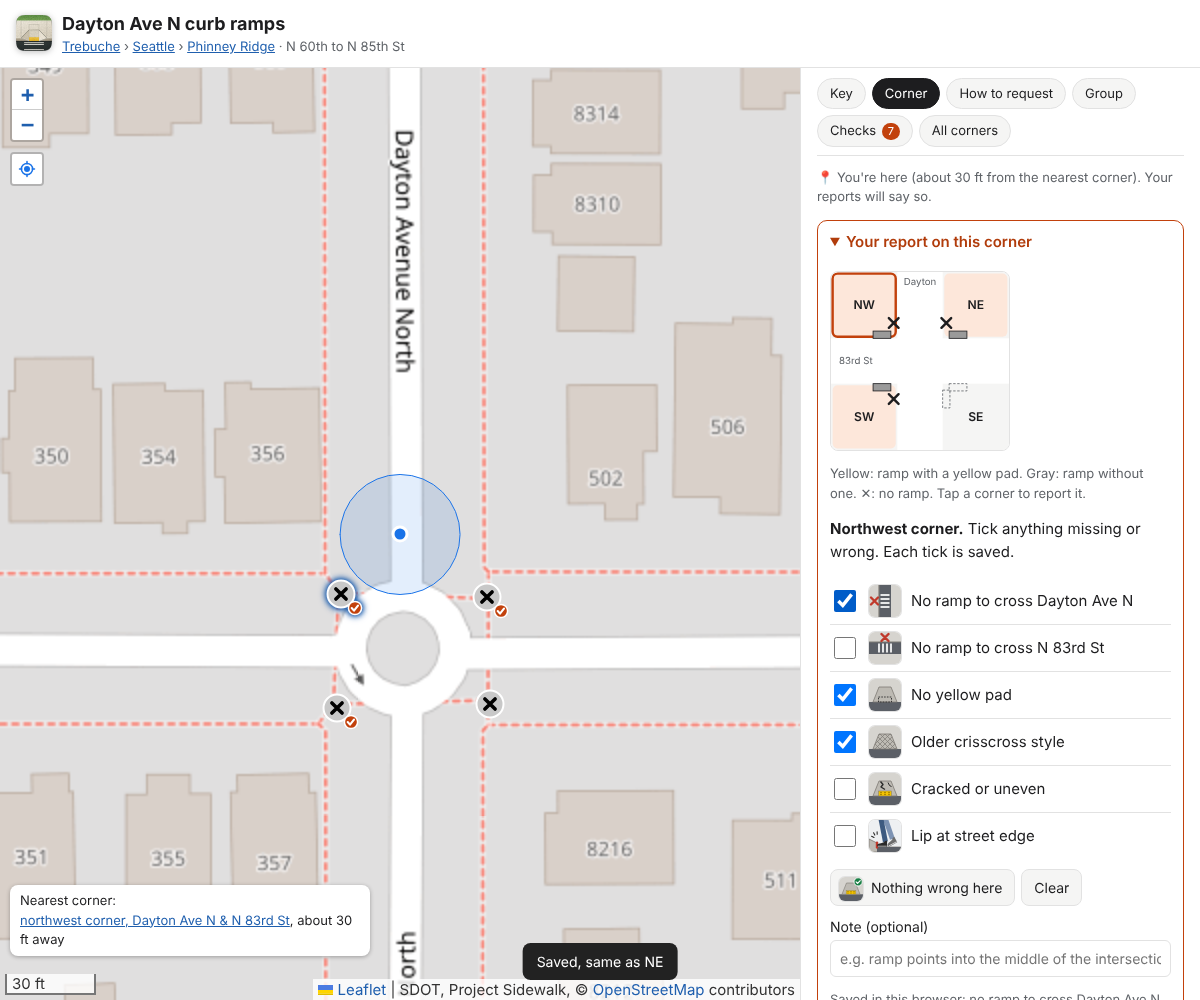
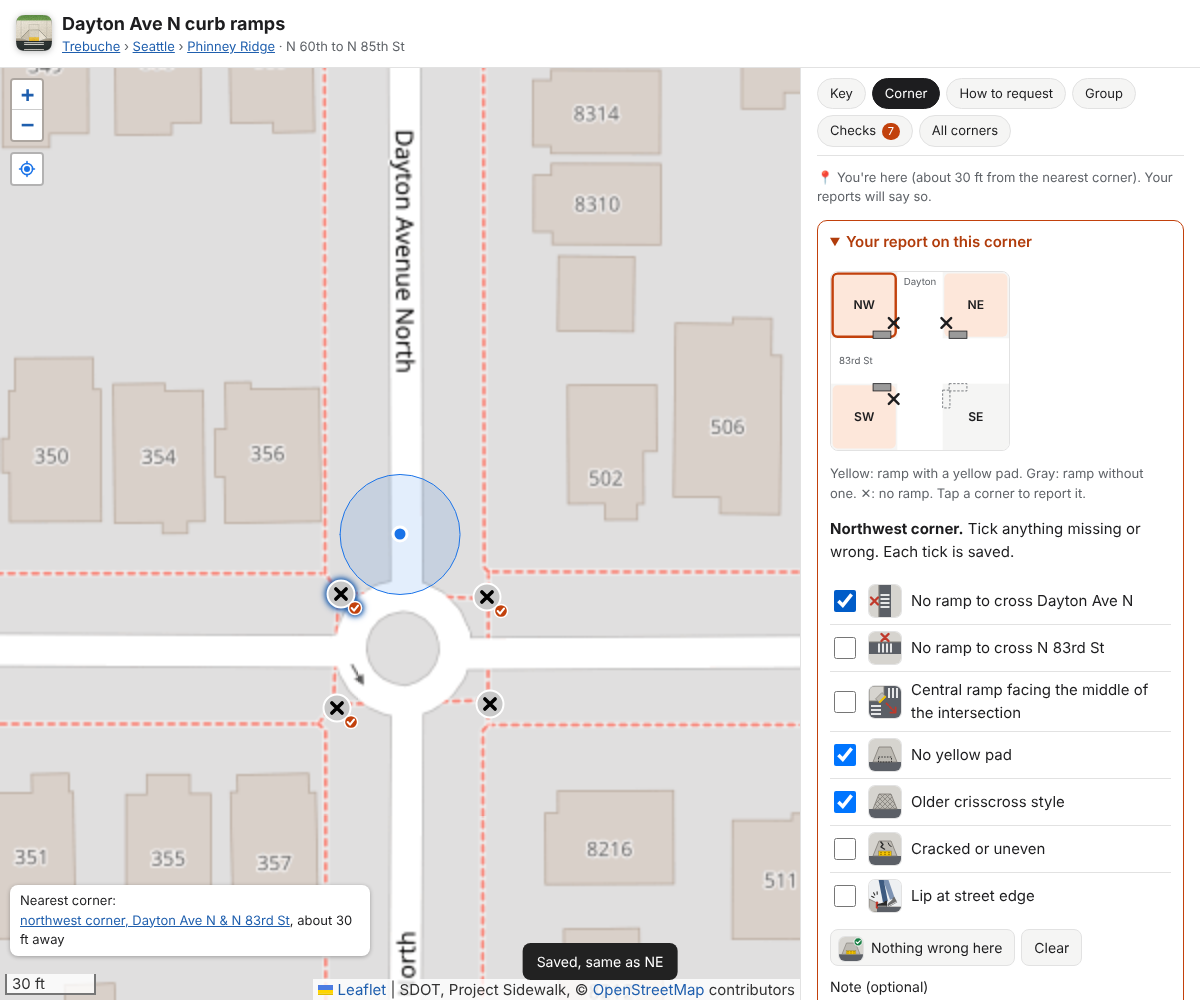
Reports: flag a central ramp facing the middle of the intersection
Some corners have a single ramp at the apex, aimed at the middle of the
intersection (like Standard Plan 422F's shared diagonal) instead of one lined
up with each crosswalk, so it doesn't line up with either crossing. It's a new
report option, "diagonal" in ramp_issues, with its own icon (turned to match
the corner). It still counts as a ramp for the crossings it serves; the corner
shows Needs upgrade and the request text explains why. The plan draws it at
the apex.

Claude-Session: https://claude.ai/code/session_01Sq9k8ApfSWaMUjBKdeSPKZ

Changed region(s): [[0.6783, 0.682, 0.9867, 1.0]]

diff --git a/docs/app.js b/docs/app.js
@@ -162,6 +162,7 @@ function checkText(c, rampsFor) {
 // What's wrong with ramps that are there. Stored as "no_warning+old_style" (ramp_issues column).
 // [checkbox label, words in sentences]
 const RAMP_ISSUES = {
+  diagonal: ["Central ramp facing the middle of the intersection", "one central ramp aimed at the middle of the intersection"],
   no_warning: ["No yellow pad", "no yellow pad"],
   old_style: ["Older crisscross style", "older crisscross style"],
   damaged: ["Cracked or uneven", "cracked or uneven"],
@@ -198,6 +199,19 @@ function reportIcon(kind, c, n) {
       <line x1="0" x2="32" y1="${curbY}" y2="${curbY}" stroke="${ICON.edge}" stroke-width="1.2"/>
       <path d="M12.5,${xy - 3.5}L19.5,${xy + 3.5}M19.5,${xy - 3.5}L12.5,${xy + 3.5}" stroke="#c0392b" stroke-width="2.4" stroke-linecap="round"/>`;
     if (n === "main") body = `<g transform="rotate(90 16 16)">${body}</g>`;
+  } else if (kind === "diagonal") {
+    // A corner from above (sidewalk in the corner's quarter, streets on the other two
+    // sides, a crosswalk across each), with one ramp at the curve aimed at the middle of
+    // the intersection, between the crosswalks. Drawn for NW, turned for the others.
+    const turn = { NW: 0, NE: 90, SE: 180, SW: 270 }[c.corner] || 0;
+    const bars = [19, 23, 27].map(x => `<rect x="${x}" y="2" width="2" height="10" fill="#fff" opacity=".85"/>`).join("") +
+      [19, 23, 27].map(y => `<rect x="2" y="${y}" width="10" height="2" fill="#fff" opacity=".85"/>`).join("");
+    body = `<g transform="rotate(${turn} 16 16)"><rect width="32" height="32" fill="${ICON.street}"/>${bars}
+      <path d="M0,0H15V8A7,7 0 0 1 8,15H0Z" fill="${ICON.walk}" stroke="${ICON.edge}" stroke-width=".9"/>
+      <g transform="rotate(-45 11.5 11.5)"><rect x="7" y="9" width="9" height="6" fill="${ICON.ramp}" stroke="${ICON.edge}" stroke-width=".6"/>
+        <rect x="7" y="13.2" width="9" height="2" fill="${ICON.pad}"/></g>
+      <path d="M17.5,17.5L25,25" stroke="#c0392b" stroke-width="1.8" stroke-linecap="round" stroke-dasharray="2.4 2"/>
+      <path d="M26.6,21.4V26.6H21.4" fill="none" stroke="#c0392b" stroke-width="1.8" stroke-linecap="round" stroke-linejoin="round"/></g>`;
   } else if (kind === "no_warning") {
     body = rampPlan({ pad: false });
   } else if (kind === "old_style") {
@@ -230,11 +244,15 @@ const issuesText = v => issueList(v).map(k => RAMP_ISSUES[k][1]).join(", ");
 const checkIssues = k => issueList(k.issues).join("+");
 const rampIssues = c => (checks[c.corner_id] ? checkIssues(checks[c.corner_id]) : c.field_issues) || "";
 function upgradeText(c) {
-  if (!issuesText(rampIssues(c)) || c.overall === "missing") return "";
+  const list = issueList(rampIssues(c));
+  if (!list.length || c.overall === "missing") return "";
   const plural = c.overall === "present" && needsOf(c).length > 1;
-  const what = issuesText(rampIssues(c));
-  return `The existing ramp${plural ? "s here: " : " here: "}${what}.` + (issueList(rampIssues(c)).includes("no_warning")
-    ? " Without the yellow pad (detectable warning panel), people who are blind or have low vision can't tell where the sidewalk ends." : "");
+  const diagonal = list.includes("diagonal"), rest = list.filter(i => i !== "diagonal").map(i => RAMP_ISSUES[i][1]);
+  let text = diagonal ? "The corner has one central ramp aimed at the middle of the intersection instead of a ramp lined up " +
+    "with each crosswalk, so it sends people toward traffic rather than into the crosswalk." : "";
+  if (rest.length) text += `${diagonal ? " The ramp also has: " : `The existing ramp${plural ? "s here: " : " here: "}`}${rest.join(", ")}.`;
+  if (list.includes("no_warning")) text += " Without the yellow pad (detectable warning panel), people who are blind or have low vision can't tell where the sidewalk ends.";
+  return text.trim();
 }
 
 // ------------------------------------------------------------------ evidence wording
@@ -749,11 +767,21 @@ function checkDiagram(c) {
       <rect x="${west ? 2 : B + 2}" y="${north ? 2 : B + 2}" width="${A - 4}" height="${A - 4}" rx="6"
         fill="${k ? "var(--checked-soft)" : "transparent"}" ${current ? 'stroke="var(--checked)" stroke-width="3"' : ""}/>
       <text x="${west ? A / 2 : B + A / 2}" y="${north ? A / 2 : B + A / 2}" dy=".35em" text-anchor="middle" class="corner-name">${x.corner}</text></g>`);
+    const diagonal = issueList(k?.issues).includes("diagonal");
+    if (diagonal && covered.length) {
+      // one ramp at the apex, aimed at the middle of the intersection
+      const ax = cx + sx * 12, ay = cy + sy * 12, turn = sx === sy ? -45 : 45;
+      parts.push(`<rect x="${ax - 8}" y="${ay - 4}" width="16" height="8" transform="rotate(${turn} ${ax} ${ay})"
+        fill="${noPad ? "#9a9a9a" : "#f2c200"}" stroke="var(--fg)" stroke-width="1"/>`);
+    }
     for (const n of needsOf(x)) {
+      if (diagonal && k && covered.includes(n)) continue; // the apex ramp stands in for it
       // ramp for crossing the side street sits on its curb; for crossing the main street, on the main street's curb
       const [w, h] = n === "cross" ? [22, 9] : [9, 22];
-      const rx = n === "cross" ? cx + sx * 8 + (sx < 0 ? -w : 0) : cx + (sx < 0 ? -w : 0);
-      const ry = n === "cross" ? cy + (sy < 0 ? -h : 0) : cy + sy * 8 + (sy < 0 ? -h : 0);
+      // with a central ramp at the apex, slide the other marks along the curb to clear it
+      const slide = diagonal ? 12 : 0;
+      const rx = n === "cross" ? cx + sx * (8 + slide) + (sx < 0 ? -w : 0) : cx + (sx < 0 ? -w : 0);
+      const ry = n === "cross" ? cy + (sy < 0 ? -h : 0) : cy + sy * (8 + slide) + (sy < 0 ? -h : 0);
       if (!k) {
         parts.push(`<rect x="${rx}" y="${ry}" width="${w}" height="${h}" fill="none" stroke="var(--muted)" stroke-dasharray="3 2"/>`);
       } else if (!covered.includes(n)) {
@@ -786,8 +814,10 @@ function cornerDescription(c, k) {
   const covered = coveredBy(k.ramps_for), need = needsOf(c);
   if (!covered.length) return need.length > 1 ? "no ramps" : "no ramp";
   const miss = need.filter(n => !covered.includes(n));
-  return [miss.length ? miss.map(n => `no ramp to cross ${crossShort(c, n)}`).join(", ") : need.length > 1 ? "ramps both ways" : "ramp",
-    ...issueList(k.issues).map(i => RAMP_ISSUES[i][1])].join(", ");
+  // A central ramp stands in for "ramps both ways": saying both would contradict itself.
+  const central = issueList(k.issues).includes("diagonal");
+  return [miss.length ? miss.map(n => `no ramp to cross ${crossShort(c, n)}`).join(", ") : central ? "" : need.length > 1 ? "ramps both ways" : "ramp",
+    ...issueList(k.issues).map(i => RAMP_ISSUES[i][1])].filter(Boolean).join(", ");
 }
 function intersectionSummary(cs) {
   const byAnswer = new Map();

diff --git a/scripts/build.rb b/scripts/build.rb
@@ -458,7 +458,7 @@ end
 # "Send checks" GitHub issues): which crossings had a ramp on the day.
 # ramps_for is "main", "cross", "main+cross" or "none". The latest check per corner wins.
 # yellow_pad is "yes", "no" or blank: whether the ramps have a detectable warning panel.
-# ramp_issues says what else is wrong with them ("old_style", "damaged", "lip", joined
+# ramp_issues says what else is wrong with them ("diagonal", "old_style", "damaged", "lip", joined
 # with "+"); a "no" yellow_pad adds "no_warning" to field_issues. distance_ft and accuracy_ft (phone location when saved) are
 # kept for review, not used here.
 def load_field_checks

diff --git a/README.md b/README.md
@@ -355,9 +355,11 @@ intersection, then to a quadrant.
 The sources can be years out of date, so the map lets neighbors record what they see.
 Reports go one corner at a time, the corner open in the panel. Under its status, **Report
 what's here** opens a short checklist for that corner: **No ramp to cross** each street
-it needs a ramp for, **No yellow pad**, **Older crisscross style**, **Cracked or uneven**
-and **Lip at street edge**, each with a small drawing of what to look for (the missing-ramp
-ones show the street to cross and which curb, turned to match the corner). Each tick is
+it needs a ramp for, **Central ramp facing the middle of the intersection** (one ramp at
+the apex instead of one lined up with each crosswalk), **No yellow pad**, **Older
+crisscross style**, **Cracked or uneven** and **Lip at street edge**, each with a small
+drawing of what to look for (the missing-ramp and central-ramp ones are turned to match
+the corner). Each tick is
 saved right away. **Nothing wrong here** records
 a good corner in one tap, and **Same as NW** (the last corner reported at that
 intersection) copies it, so Dayton & N 83rd St, where all four corners have the same
@@ -394,8 +396,10 @@ dayton-83-NW,2026-11-07,cross,no,old_style,,,
 corner wins over every other source and sets `overall` (a check that finds no ramp
 counts as confirmed missing), unless SDOT recorded work there after the check.
 `yellow_pad` is `yes`, `no` or blank (not noted). `ramp_issues` lists anything else
-wrong with the ramps, joined with `+`: `old_style` (crisscross grooves), `damaged`,
-`lip`. A `no` pad (Standard Plan 422k requires one) or any issue makes the corner say **Needs upgrade**, and their
+wrong with the ramps, joined with `+`: `diagonal` (one central ramp at the apex, aimed at
+the middle of the intersection instead of lined up with each crosswalk, like Standard Plan
+422F; it still counts as a ramp for the crossings it serves), `old_style` (crisscross
+grooves), `damaged`, `lip`. A `no` pad (Standard Plan 422k requires one) or any issue makes the corner say **Needs upgrade**, and their
 request text asks SDOT to upgrade the ramp as well as add any missing one.
 `distance_ft` and `accuracy_ft` are blank for checks saved without location; the build
 doesn't use them yet, they're there for whoever reviews the issue. The CSV
